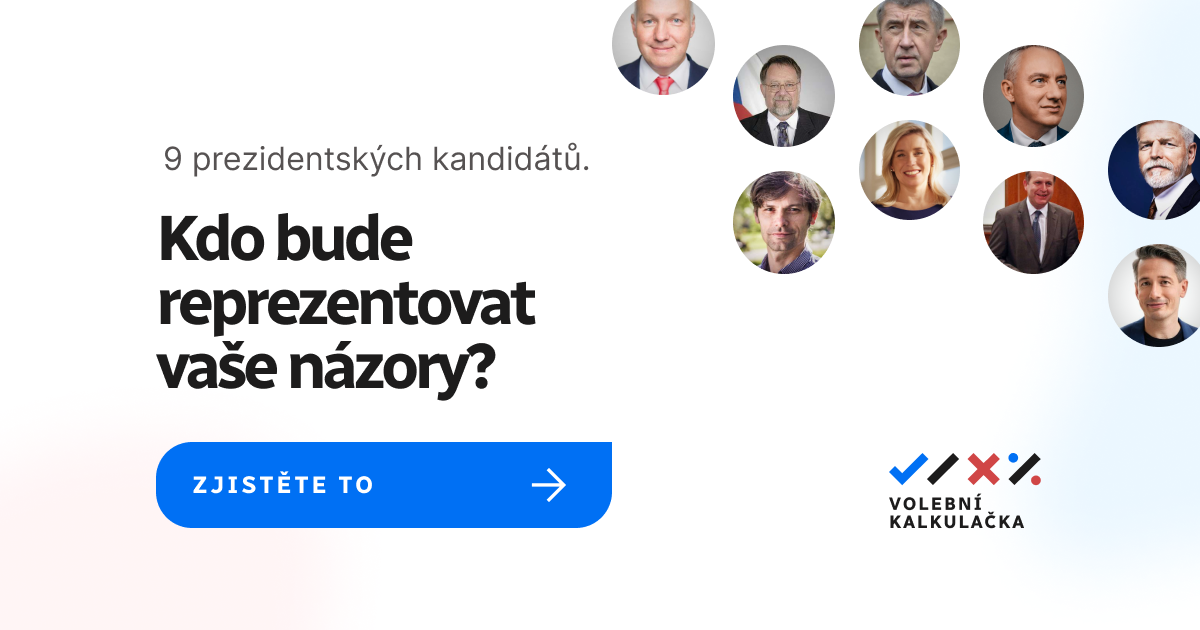
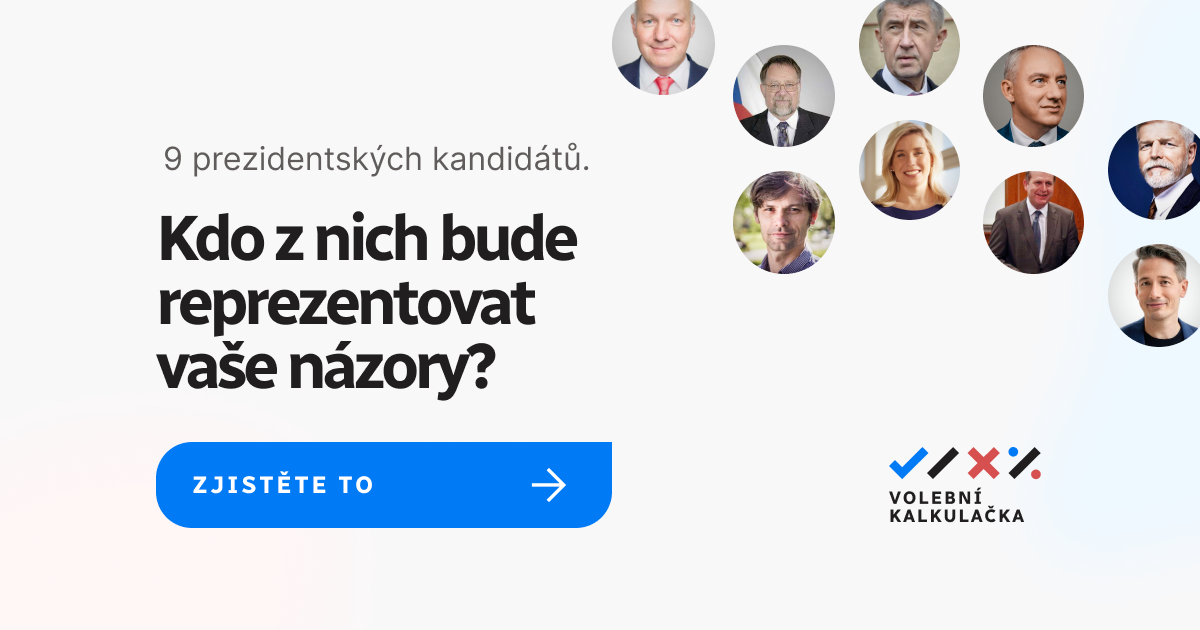
update copy

Changed region(s): [[0.2158, 0.3317, 0.4933, 0.4222], [0.74, 0.6937, 0.8633, 0.8444]]

diff --git a/frontend/index.html b/frontend/index.html
@@ -9,7 +9,7 @@
     <meta property="og:title" content="Volební Kalkulačka" />
     <meta
       property="og:description"
-      content="9 prezidentských kandidátů. Kdo bude reprezentovat vaše názory?"
+      content="9 prezidentských kandidátů. Kdo z nich bude reprezentovat vaše názory?"
     />
     <meta
       property="og:image"
@@ -26,7 +26,7 @@
     <meta name="twitter:title" content="Volební Kalkulačka" />
     <meta
       name="twitter:description"
-      content="9 prezidentských kandidátů. Kdo bude reprezentovat vaše názory?"
+      content="9 prezidentských kandidátů. Kdo z nich bude reprezentovat vaše názory?"
     />
     <meta
       name="twitter:image"
